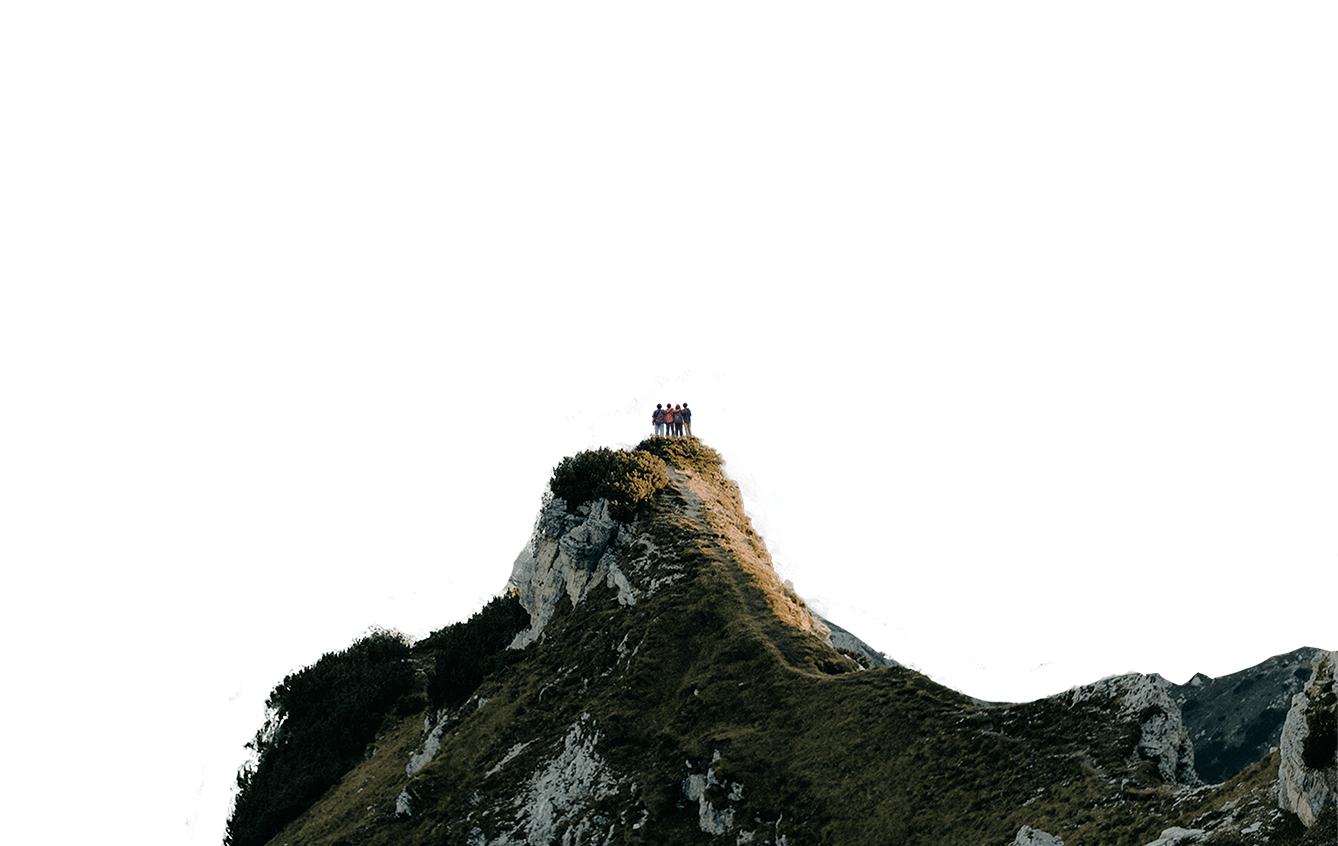
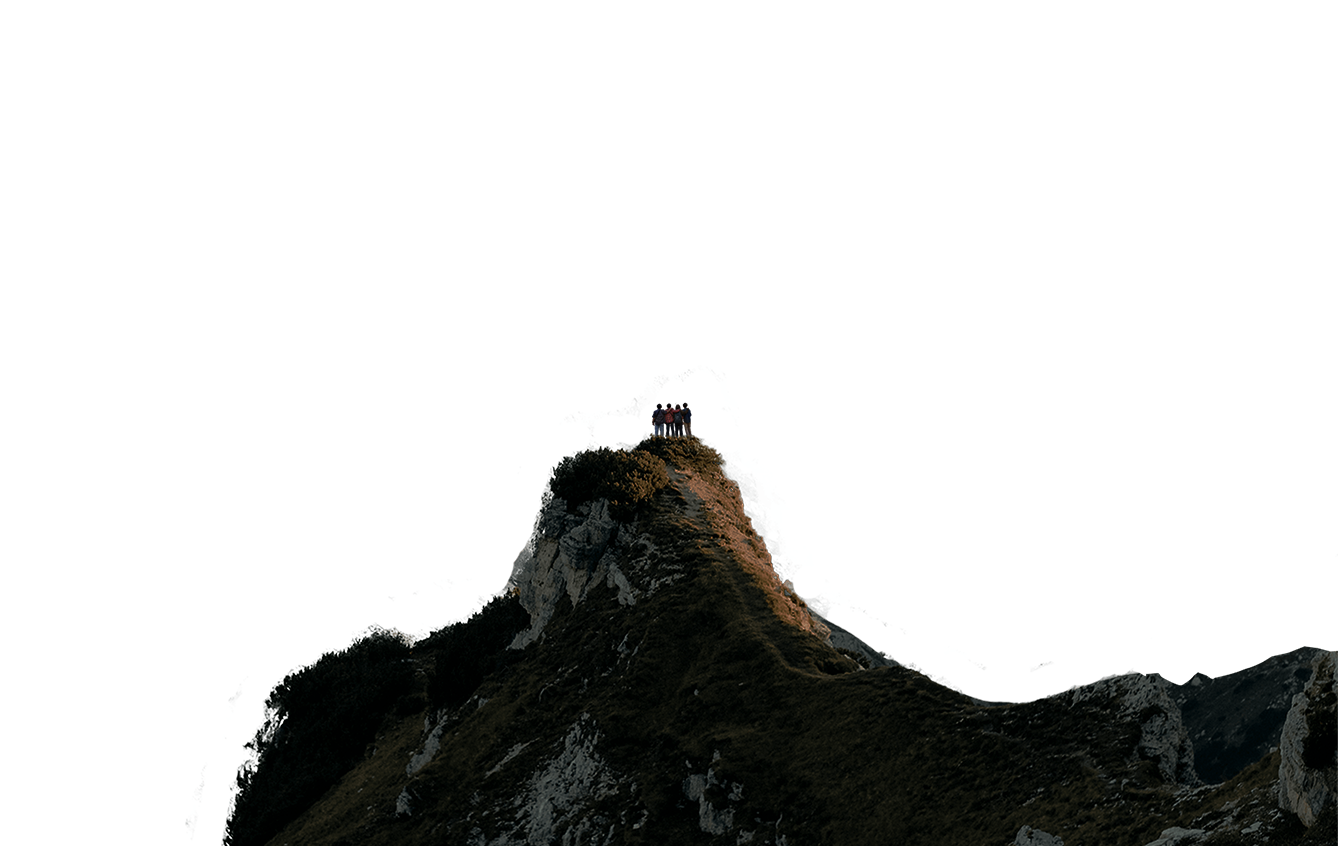
Production page & fixing more bug

diff --git a/src/parts/production/style.scss b/src/parts/production/style.scss
@@ -1,0 +1,82 @@
+.production {
+  margin-top: 5rem;
+  min-height: 450px;
+  padding: 1rem 10rem;
+
+  @media (max-width: 468px) {
+    padding: 1rem 2rem;
+  }
+
+  .container {
+    display: grid;
+    grid-template-columns: repeat(2, 1fr);
+    gap: 5rem 3rem;
+
+    @media (max-width: 468px) {
+      grid-template-columns: repeat(1, 1fr);
+      gap: 1rem 3rem;
+    }
+
+    .production__card {
+      position: relative;
+      border-radius: 10px;
+      overflow: hidden;
+
+      @media (max-width: 468px) {
+        margin-top: 1.5rem;
+      }
+
+      .img-wrapper:after {
+        content: '';
+        position: absolute;
+        width: 100%;
+        height: 100%;
+        left: 0;
+        top: 0;
+        background: linear-gradient(to top, rgb(0, 0, 0), transparent);
+      }
+
+      .img-cover {
+        object-fit: cover;
+        width: 100%;
+        height: 100%;
+      }
+    }
+    .production__meta-wrapper {
+      h5 {
+        // text-transform: uppercase;
+        font-size: 1.75rem;
+        font-weight: 600;
+        margin-bottom: 1rem;
+      }
+
+      p {
+        font-size: 1rem;
+        font-weight: 300;
+        margin-bottom: 1rem;
+      }
+
+      .production__button {
+        padding: 0.5rem 1rem;
+        min-height: 44px;
+        min-width: 44px;
+        background-color: #ffb800;
+        border-radius: 8px;
+      }
+
+      @media (max-width: 468px) {
+        h5 {
+          font-size: 1.25rem;
+        }
+
+        p {
+          font-size: 0.8rem;
+          line-height: 1.2rem;
+        }
+
+        .production__button {
+        }
+      }
+    }
+  }
+}

diff --git a/src/parts/faq/style.scss b/src/parts/faq/style.scss
@@ -79,94 +79,10 @@
 }
 
 @media (max-width: 468px) {
-  .hero {
-    padding: 0 1rem;
-    background-size: cover;
-  }
-
-  .hero .container h1 {
-    font-size: 3rem;
-  }
-
-  .hero .container p {
-    font-size: 0.7rem;
-  }
-
-  .nav-items {
-    padding: 1rem 3rem;
-  }
-  .nav-links {
-    flex-direction: column;
-    justify-content: center;
-  }
-
-  .nav-links li {
-    margin-bottom: 2rem;
-  }
-
-  .nav-links li a {
-    font-size: 1.2rem;
-  }
-  .nav-items {
-    padding: 1rem 2rem;
-  }
-  nav .social-media {
-    display: none;
-  }
-  .container,
-  .features .container,
-  footer .container {
-    padding: 0 1rem;
-  }
-
-  .plan .container:nth-child(1) {
-    margin-bottom: 10px;
-  }
-
-  .plan .business-plan {
-    width: 100%;
-    height: auto;
-  }
-
-  .plan .plan__card {
-    margin: -1rem 0;
-  }
-
-  .plan .plan__card.card__sub {
-    transform: scale(0.8);
-  }
-  .plan .plan__card.card__main {
-    transform: scale(0.9);
-  }
-
-  .business-plan .btn-plan {
-    font-size: 0.5rem;
-    padding: 6px;
-  }
-  .container__card {
-    display: flex;
-    flex-direction: column;
-    justify-content: space-around;
-    align-items: center;
-  }
-
-  .features .features__title,
-  .features .features__sub-title {
-    transform: scale(0.7);
-  }
-
-  .features table,
-  .features table i {
-    font-size: 0.8rem;
-  }
-
-  .features table thead tr td {
-    padding: 0 10px;
-  }
-
   .faq .container:nth-child(2) {
     width: 100%;
     margin: 0 auto;
+    padding: 1rem;
   }
 
   .faq .faq__title {

diff --git a/src/parts/production/production.js b/src/parts/production/production.js
@@ -1,0 +1,38 @@
+import React from 'react';
+import Button from 'elements/button';
+import { Fade } from 'react-awesome-reveal';
+import './style.scss';
+
+export default function production({ data }) {
+  return (
+    <section className="production">
+      <div className="container">
+        {data.map((production, i) => (
+          <Fade key={i}>
+            <div className="production__card">
+              <figure className="img-wrapper">
+                <img
+                  src={production.imageUrl}
+                  alt={production.name}
+                  className="img-cover"
+                />
+              </figure>
+            </div>
+            <div className="production__meta-wrapper">
+              <h5>{production.name}</h5>
+              <p>{production.description}</p>
+
+              <Button
+                className="production__button"
+                type="link"
+                href="/production"
+              >
+                See Details
+              </Button>
+            </div>
+          </Fade>
+        ))}
+      </div>
+    </section>
+  );
+}

diff --git a/src/parts/footer/index.js b/src/parts/footer/index.js
@@ -19,7 +19,7 @@ export default function index() {
           <div className="footer__part2">
             <ul>
               <li>
-                <Button href="#" type="link">
+                <Button href="/contact" type="link">
                   Contact Us
                 </Button>
               </li>
@@ -34,12 +34,12 @@ export default function index() {
                 </Button>
               </li>
               <li>
-                <Button href="#" type="link">
+                <Button href="/" type="link">
                   Kerabat Motret
                 </Button>
               </li>
               <li>
-                <Button href="#" type="link">
+                <Button href="/production" type="link">
                   Production
                 </Button>
               </li>

diff --git a/src/App.js b/src/App.js
@@ -4,6 +4,7 @@ import Projects from './pages/Projects';
 import Pricing from './pages/Pricing';
 import About from './pages/About';
 import Contact from './pages/Contact';
+import Production from './pages/Production';
 import DetailProject from './pages/DetailProject';
 
 function App() {
@@ -13,6 +14,7 @@ function App() {
       <Route path="/pricing" component={Pricing}></Route>
       <Route path="/about" component={About}></Route>
       <Route path="/contact" component={Contact}></Route>
+      <Route path="/production" component={Production}></Route>
       <Route path="/projects" component={Projects}></Route>
       <Route path="/detail-project/:id" component={DetailProject}></Route>
     </Router>

diff --git a/src/pages/Production.js b/src/pages/Production.js
@@ -1,0 +1,18 @@
+import React, { useEffect } from 'react';
+import ListProduction from 'parts/production/production';
+import Header from 'parts/header';
+import production from 'assets/data/Production.json';
+
+export default function Production() {
+  const dataProduction = production.productions;
+  useEffect(() => {
+    window.scrollTo(0, 0);
+    document.body.classList.remove('hidden');
+  }, []);
+  return (
+    <>
+      <Header />
+      <ListProduction data={dataProduction} />
+    </>
+  );
+}

diff --git a/src/parts/landinghero/index.js b/src/parts/landinghero/index.js
@@ -1,6 +1,6 @@
 import React, { useEffect, useCallback } from 'react';
 import './index.scss';
-import Mountain1 from 'assets/images/background/mountain-1.png';
+import Mountain1 from 'assets/images/background/mountain-1.jpg';
 import Mountain2 from 'assets/images/background/mountain-2.png';
 
 export default function LandingHero(props) {

diff --git a/src/parts/header/index.js b/src/parts/header/index.js
@@ -42,7 +42,7 @@ export default function Header() {
 
         <ul className={`nav-links ${drawer ? 'open' : ''} `}>
           <li>
-            <Button href="/about-us" type="link">
+            <Button href="/about" type="link">
               About Us
             </Button>
           </li>

diff --git a/src/parts/pricePlan/index.scss b/src/parts/pricePlan/index.scss
@@ -106,10 +106,8 @@
 }
 
 @media (max-width: 468px) {
-  .container,
-  .features .container,
-  footer .container {
-    padding: 0 1rem;
+  .features .container {
+    padding: 0;
   }
 
   .plan .container:nth-child(1) {

diff --git a/src/parts/footer/index.scss b/src/parts/footer/index.scss
@@ -73,6 +73,10 @@ footer {
       margin-top: 1rem;
     }
 
+    .footer__under > * {
+      margin-bottom: 0.7rem;
+    }
+
     .footer__under {
       margin-top: 0;
       justify-content: center;

diff --git a/src/parts/tableFeatures/index.scss b/src/parts/tableFeatures/index.scss
@@ -37,7 +37,7 @@
 @media (max-width: 468px) {
   .features table,
   .features table i {
-    font-size: 0.6rem;
+    font-size: 0.7rem;
   }
 
   .features table thead tr td {

diff --git a/src/parts/pricePlan/index.js b/src/parts/pricePlan/index.js
@@ -24,8 +24,6 @@ export default function PricePlan() {
     setIsActive(param);
   };
 
-  console.log(listPricing);
-
   return (
     <>
       <section className="plan">
